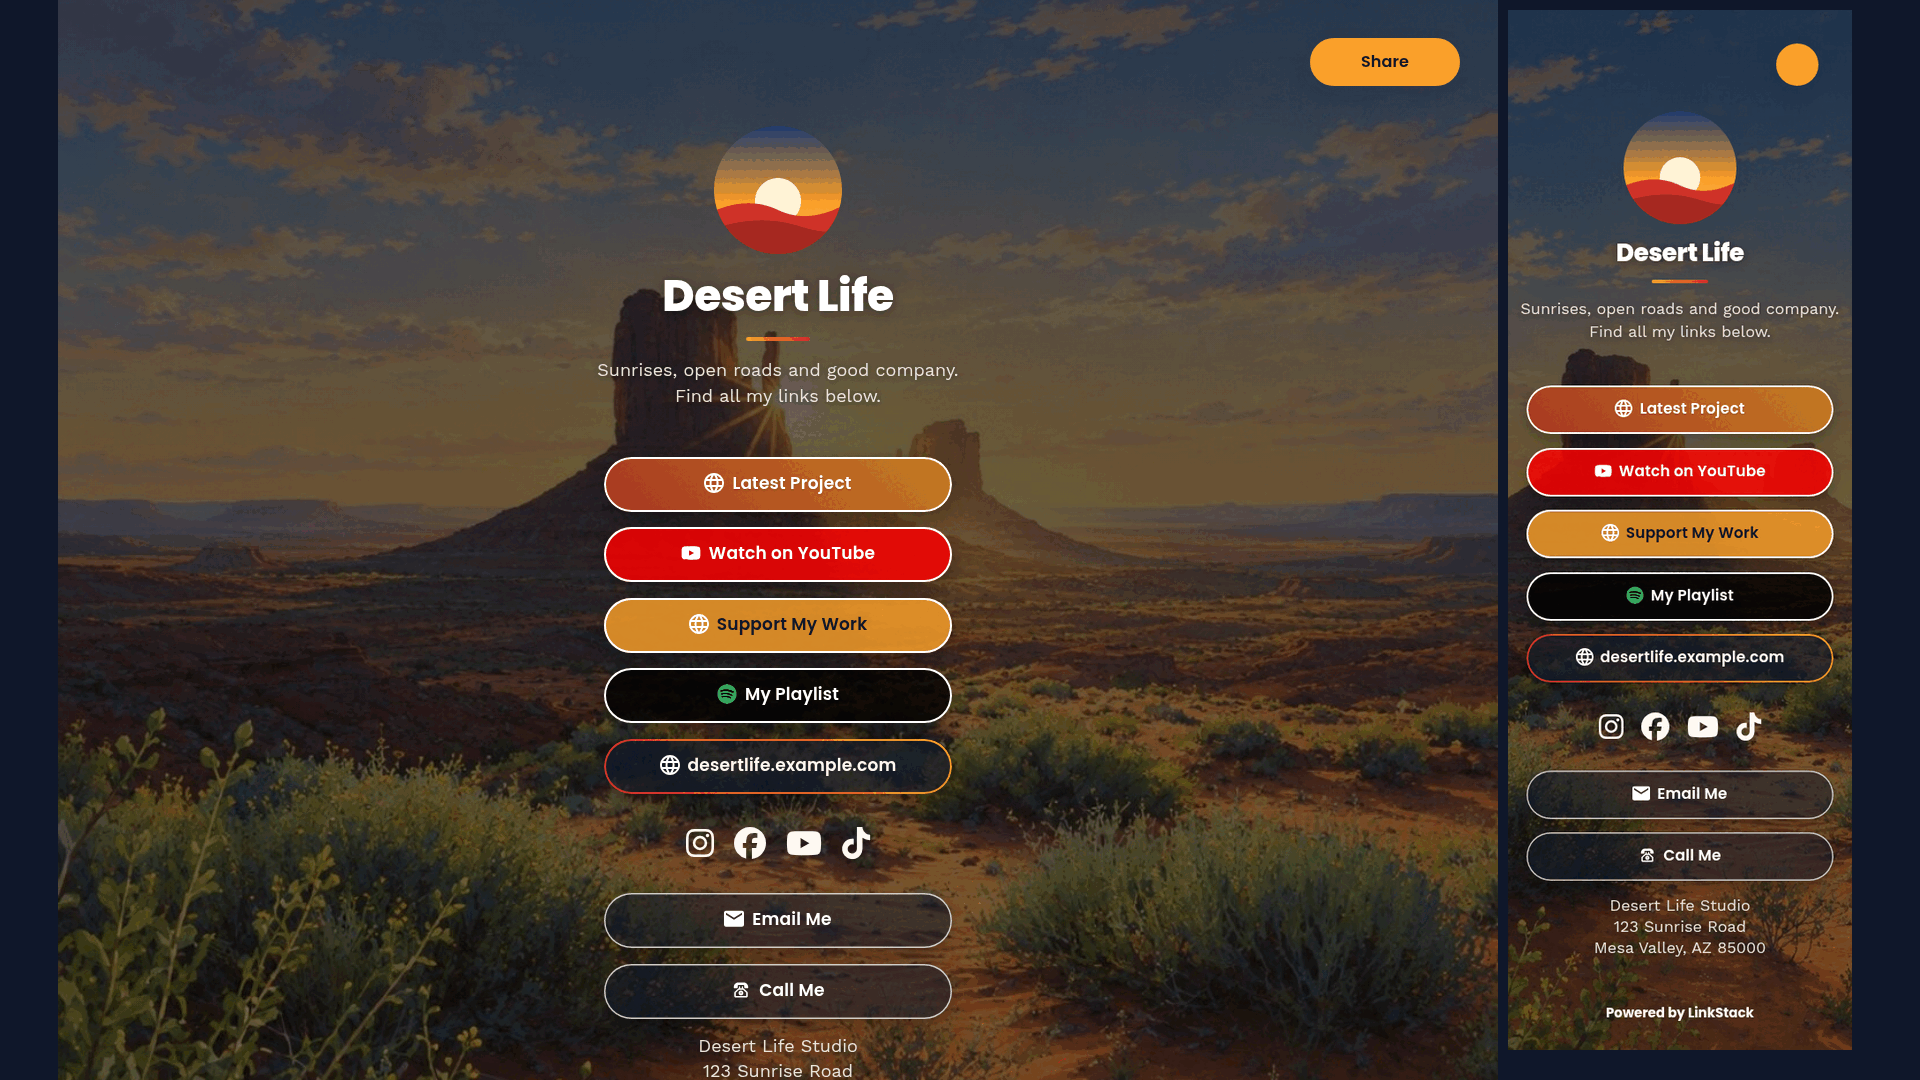
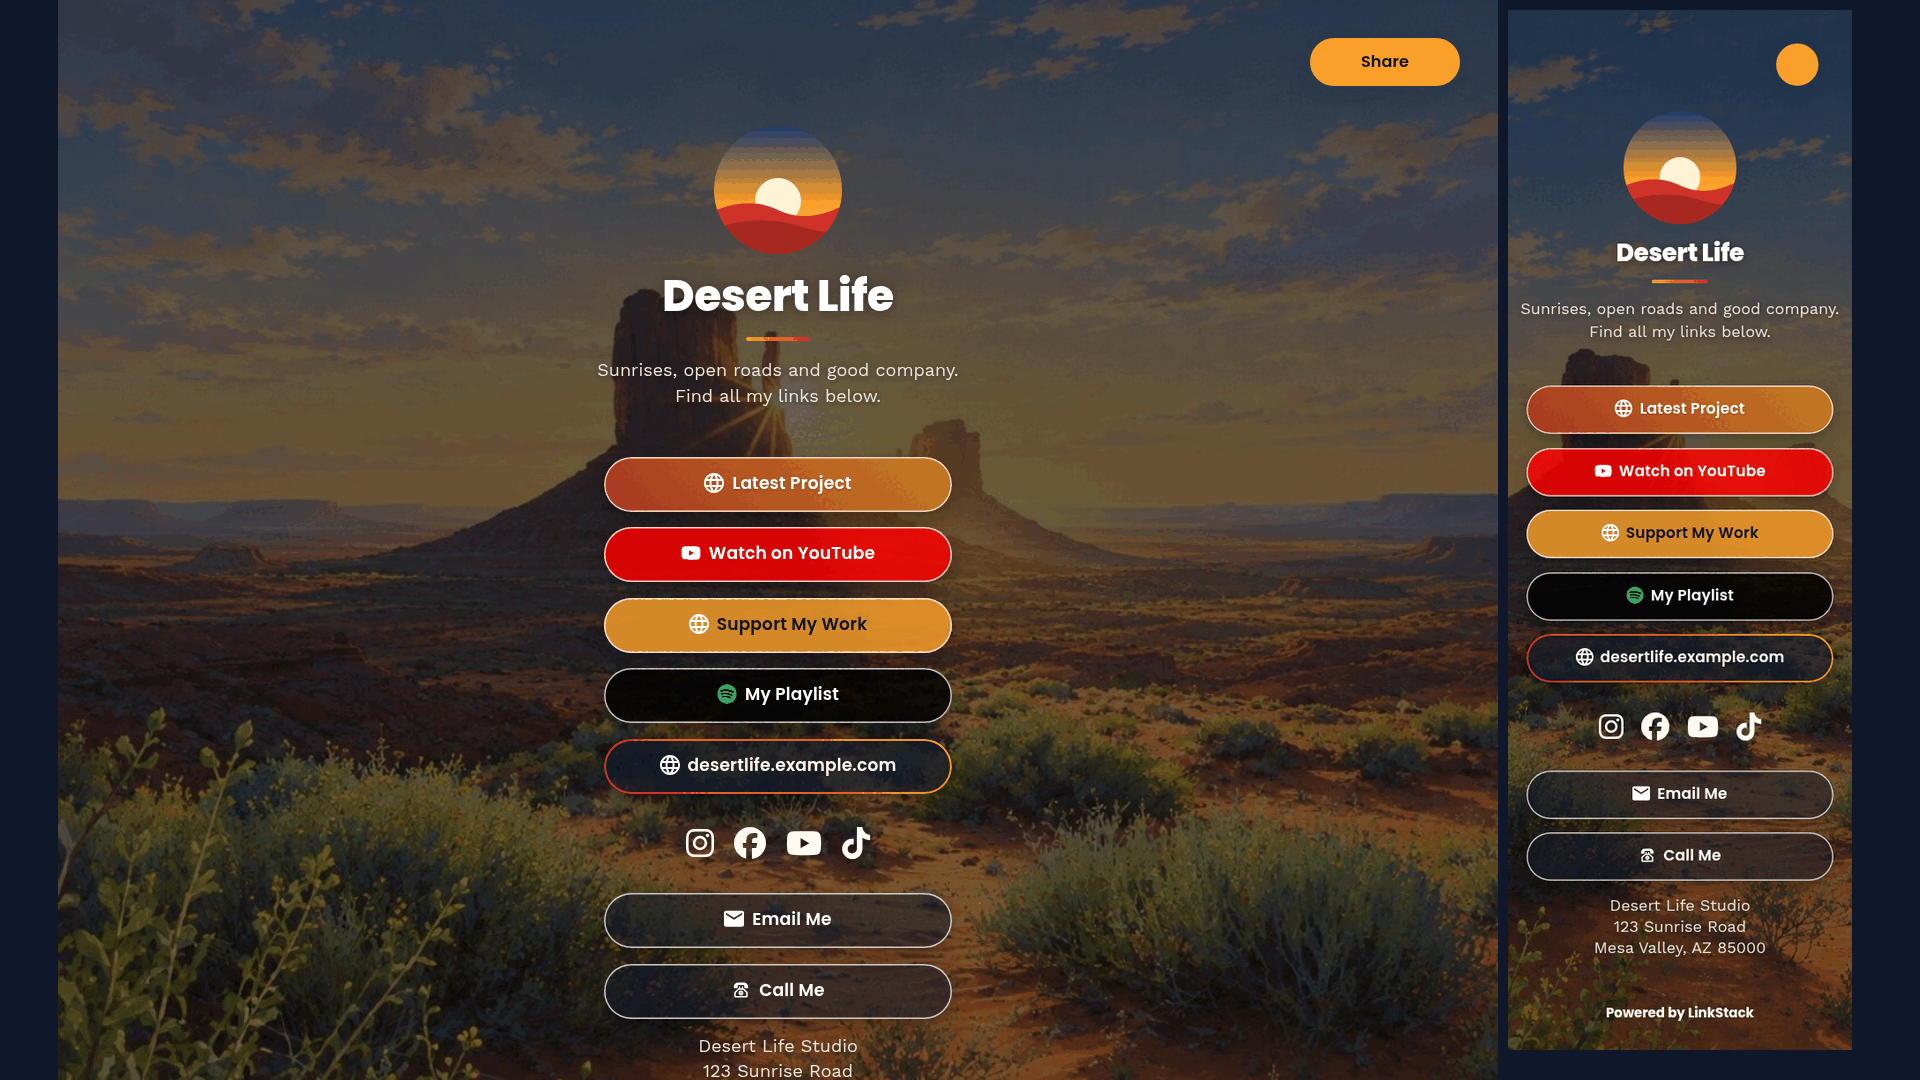
v1.2: Thin light border on link buttons
Link buttons now use the same 1.5px, 75% white ring as the contact
buttons instead of a solid 2px white ring.

Changed region(s): [[0.8125, 0.4583, 0.9375, 0.4889], [0.8125, 0.3972, 0.9375, 0.4278]]

diff --git a/brands.css b/brands.css
@@ -52,8 +52,9 @@ button {
   outline: none;
   border: none;
   border-radius: 50px;
-  /* White ring for contrast against the background image */
-  box-shadow: inset 0 0 0 2px #ffffff, 0 6px 18px rgba(0, 0, 0, 0.30);
+  /* Thin light ring for contrast against the background image
+     (same as the contact buttons) */
+  box-shadow: inset 0 0 0 1.5px rgba(255, 255, 255, 0.75), 0 6px 18px rgba(0, 0, 0, 0.30);
   cursor: pointer;
  }
 /* Frosted glass: brand colors below are slightly see-through (alpha 0.82)
@@ -67,7 +68,7 @@ button {
 /* animations.css resets box-shadow on .button-hover, so restate the ring
    with higher specificity (Website buttons override it further down). */
 .button.button-hover {
-  box-shadow: inset 0 0 0 2px #ffffff, 0 6px 18px rgba(0, 0, 0, 0.30);
+  box-shadow: inset 0 0 0 1.5px rgba(255, 255, 255, 0.75), 0 6px 18px rgba(0, 0, 0, 0.30);
 }
 button:hover,
 .button:focus {

diff --git a/readme.md b/readme.md
@@ -4,7 +4,7 @@ A warm desert sunrise theme with the social icons, contact buttons and text bloc
 Find more themes: https://github.com/LinkStackOrg/linkstack-themes
 
 *	Theme Name: DesertLife
-*	Theme Version: 1.1
+*	Theme Version: 1.2
 *	Theme Date: 2026-10-11
 *	Theme Author: huntrw6
 *	Theme Author URI: https://github.com/huntrw6
@@ -18,7 +18,7 @@ Find more themes: https://github.com/LinkStackOrg/linkstack-themes
 * Built-in painted desert sunrise background (`background.jpg`) with a soft navy overlay and white title for contrast
 * A background uploaded in LinkStack Studio still overrides the built-in one
 * Brand buttons keep their recognizable brand colors; the Default, Custom and Website buttons use the desert palette
-* White ring around link buttons; Website button has a red-to-orange gradient border that slowly rotates (static for visitors who prefer reduced motion)
+* Thin light ring around link buttons; Website button has a red-to-orange gradient border that slowly rotates (static for visitors who prefer reduced motion)
 * Social icons sit below the buttons, followed by Email, Phone and Save Contact buttons in a dark glass style, then any text blocks
 * Text blocks keep multi-line text (like an address) tight
 * No JavaScript or custom code required
